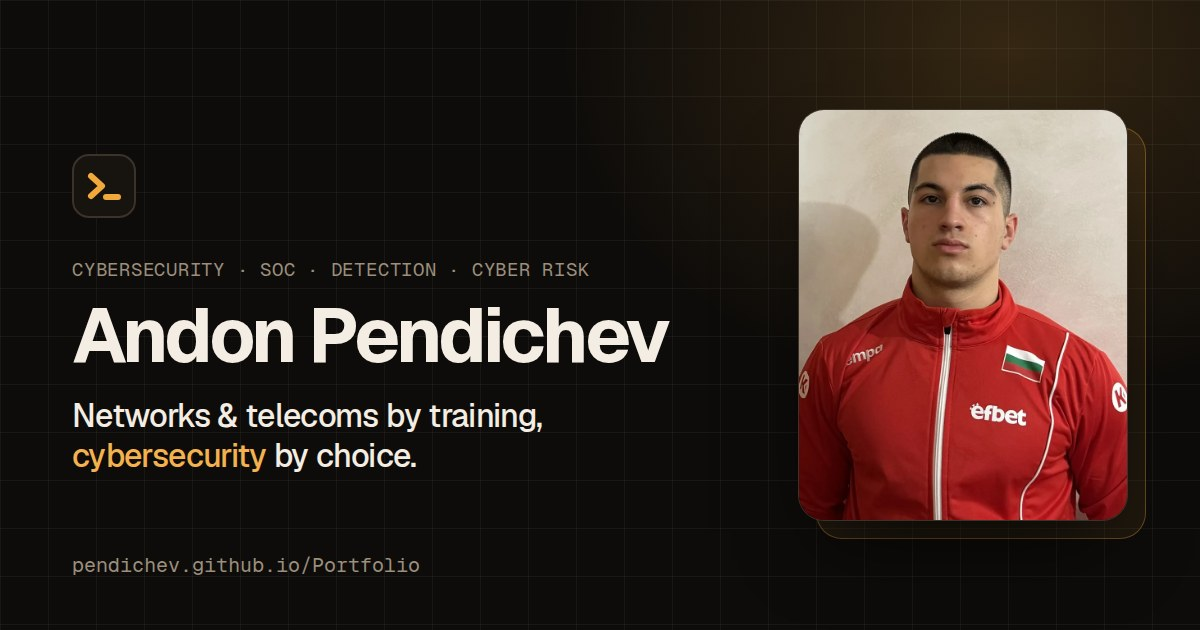
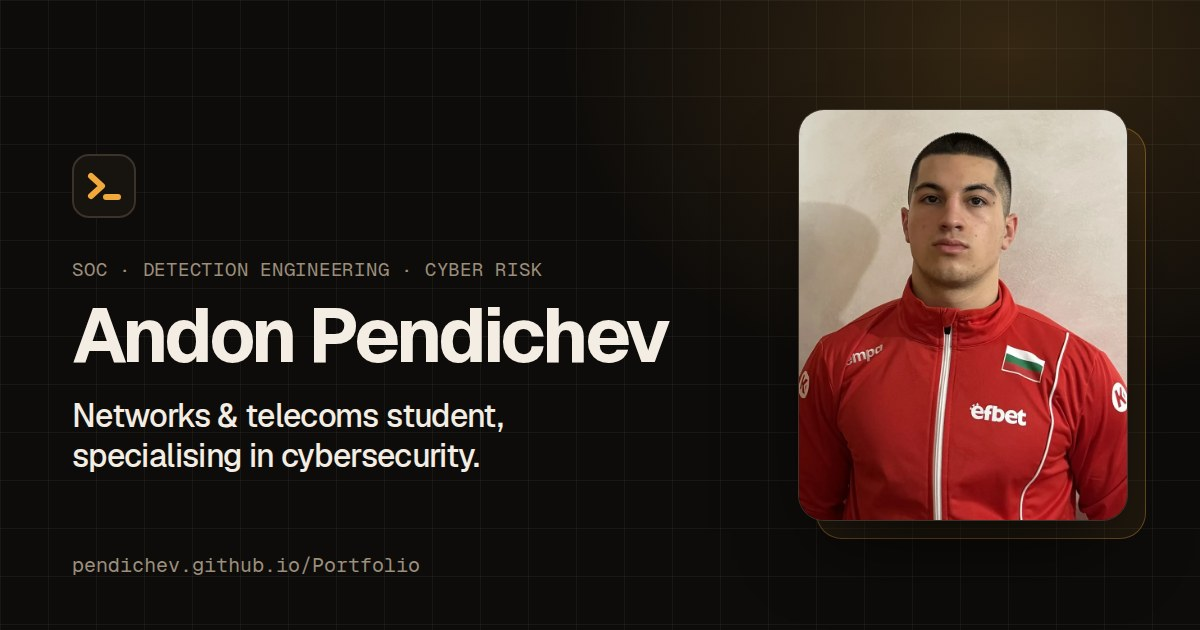
Hero: plain tagline, no stats row
- Replace the "by training / by choice" tagline with a plain statement:
  "Networks & telecoms student, specialising in cybersecurity." (FR:
  "Étudiant en réseaux & télécoms, spécialisé en cybersécurité.")
- Shorter intro under it: university and the two internships.
- Drop "Cybersecurity" from the eyebrow now that the tagline says it.
- Remove the stats row (markup, styles and strings).
- Clip the hero sideways only, so the photo's shadow is no longer cut off.
- Update og:description and regenerate the social preview image.

Claude-Session: https://claude.ai/code/session_01Ug7w3SsYw8BMmvt2FnuTEH

Changed region(s): [[0.0617, 0.6333, 0.4625, 0.754], [0.0617, 0.4222, 0.4933, 0.4524]]

diff --git a/index.html b/index.html
@@ -16,7 +16,7 @@
 
   <meta property="og:type" content="profile">
   <meta property="og:title" content="Andon Pendichev — Cybersecurity student">
-  <meta property="og:description" content="Networks &amp; telecoms by training, cybersecurity by choice.">
+  <meta property="og:description" content="Networks &amp; telecoms student, specialising in cybersecurity.">
   <meta property="og:url" content="https://pendichev.github.io/Portfolio/">
   <meta property="og:image" content="https://pendichev.github.io/Portfolio/assets/img/og-image.jpg">
   <meta property="og:image:width" content="1200">
@@ -135,10 +135,10 @@
       <div class="container hero__grid">
         <div class="hero__copy">
           <p class="status-pill"><span class="status-pill__dot" aria-hidden="true"></span><span data-i18n="hero.status">Open to internships &amp; junior roles</span></p>
-          <p class="hero__eyebrow mono" data-i18n="hero.eyebrow">Cybersecurity · SOC · Detection engineering · Cyber risk</p>
+          <p class="hero__eyebrow mono" data-i18n="hero.eyebrow">SOC · Detection engineering · Cyber risk</p>
           <h1 class="hero__title" id="hero-title">Andon Pendichev</h1>
-          <p class="hero__lead" data-i18n="hero.lead"><span>Networks &amp; telecoms by training,</span> <span><em>cybersecurity</em> by choice.</span></p>
-          <p class="hero__text" data-i18n="hero.text">Third-year student at IUT de Villetaneuse — Université Sorbonne Paris Nord. From optical fibre and radio links to network design, web tools and security operations, I&nbsp;like understanding how systems work end to end.</p>
+          <p class="hero__lead" data-i18n="hero.lead"><span>Networks &amp; telecoms student,</span> <span>specialising in cybersecurity.</span></p>
+          <p class="hero__text" data-i18n="hero.text">Studying at Université Sorbonne Paris Nord, with two internships in 24/7 operations behind me: one in a network operations centre, one in cybersecurity.</p>
           <div class="hero__actions">
             <a class="btn btn--primary" href="#projects"><span data-i18n="hero.cta1">See my work</span><svg class="icon" aria-hidden="true"><use href="#i-arrow-right"/></svg></a>
             <a class="btn btn--ghost" href="#cv"><svg class="icon" aria-hidden="true"><use href="#i-file-text"/></svg><span data-i18n="hero.cta2">Get my CV</span></a>
@@ -156,15 +156,6 @@
             <span class="hero__card-v" data-i18n="hero.card.v">BUT Networks &amp; Telecoms, year 3</span>
           </figcaption>
         </figure>
-      </div>
-
-      <div class="container">
-        <ul class="hero-stats">
-          <li class="hero-stats__item"><strong class="hero-stats__num">14</strong><span data-i18n="hero.stat1">projects in security, networks, telecoms &amp; development</span></li>
-          <li class="hero-stats__item"><strong class="hero-stats__num">2</strong><span data-i18n="hero.stat2">internships in Bulgaria — network operations &amp; cybersecurity</span></li>
-          <li class="hero-stats__item"><strong class="hero-stats__num">10</strong><span data-i18n="hero.stat3">years of team handball, incl. the Bulgarian national team</span></li>
-          <li class="hero-stats__item"><strong class="hero-stats__num">4</strong><span data-i18n="hero.stat4">languages — Bulgarian, French, English, Spanish</span></li>
-        </ul>
       </div>
     </section>
 

diff --git a/assets/css/main.css b/assets/css/main.css
@@ -466,7 +466,8 @@ code {
   position: relative;
   isolation: isolate;
   overflow: hidden;
-  padding: calc(var(--header-h) + clamp(40px, 7vw, 88px)) 0 clamp(8px, 2vw, 24px);
+  overflow: clip visible; /* clip sideways only, so the photo's shadow isn't cut off */
+  padding: calc(var(--header-h) + clamp(40px, 7vw, 88px)) 0 clamp(32px, 5vw, 56px);
 }
 .hero__bg {
   position: absolute;
@@ -547,14 +548,6 @@ code {
 }
 /* Each half of the tagline wraps as a unit, so the line breaks after the comma. */
 .hero__lead > span { display: inline-block; }
-.hero__lead em {
-  font-style: normal;
-  color: var(--accent-text);
-  text-decoration: underline;
-  text-decoration-color: var(--accent-line);
-  text-decoration-thickness: .1em;
-  text-underline-offset: .16em;
-}
 .hero__text { max-width: 58ch; margin-bottom: 30px; font-size: 1.05rem; text-wrap: pretty; }
 .hero__actions { display: flex; flex-wrap: wrap; gap: 12px; margin-bottom: 28px; }
 .hero__meta {
@@ -608,44 +601,10 @@ code {
 .hero__card-k { font-size: .66rem; letter-spacing: .08em; text-transform: uppercase; color: var(--accent-text); }
 .hero__card-v { font-size: .95rem; font-weight: 600; color: var(--text); }
 
-/* Stats strip */
-.hero-stats {
-  display: grid;
-  grid-template-columns: repeat(4, minmax(0, 1fr));
-  margin-top: clamp(48px, 7vw, 80px);
-  border-top: 1px solid var(--line);
-}
-.hero-stats__item {
-  display: flex;
-  flex-direction: column;
-  gap: 6px;
-  padding: 22px 22px 0 0;
-  font-size: .9rem;
-  line-height: 1.4;
-  color: var(--text-3);
-}
-.hero-stats__item + .hero-stats__item { padding-left: 22px; border-left: 1px solid var(--line); }
-.hero-stats__num {
-  font-size: clamp(1.9rem, 3.2vw, 2.5rem);
-  font-weight: 650;
-  line-height: 1;
-  letter-spacing: -0.03em;
-  color: var(--text);
-}
-
 @media (max-width: 1020px) {
   .hero__grid { grid-template-columns: minmax(0, 1fr); }
   .hero__photo { justify-self: start; max-width: 340px; }
   .hero__card { left: 16px; bottom: 16px; }
-}
-@media (max-width: 760px) {
-  .hero-stats { grid-template-columns: repeat(2, minmax(0, 1fr)); border-top: 0; gap: 12px; }
-  .hero-stats__item,
-  .hero-stats__item + .hero-stats__item {
-    padding: 16px 0 0;
-    border-left: 0;
-    border-top: 1px solid var(--line);
-  }
 }
 @media (max-width: 480px) {
   .hero__actions .btn { flex: 1 1 auto; }

diff --git a/assets/js/i18n.js b/assets/js/i18n.js
@@ -33,18 +33,14 @@ window.I18N.fr = {
 
   /* Hero */
   'hero.status': 'Ouvert aux stages et premiers postes',
-  'hero.eyebrow': 'Cybersécurité · SOC · Ingénierie de la détection · Risques cyber',
-  'hero.lead': '<span>Réseaux &amp; télécoms par formation,</span> <span><em>cybersécurité</em> par choix.</span>',
-  'hero.text': 'Étudiant en troisième année à l’IUT de Villetaneuse — Université Sorbonne Paris Nord. De la fibre optique et des liaisons radio à la conception de réseaux, aux outils web et aux opérations de sécurité, j’aime comprendre comment les systèmes fonctionnent de bout en bout.',
+  'hero.eyebrow': 'SOC · Ingénierie de la détection · Risques cyber',
+  'hero.lead': '<span>Étudiant en réseaux &amp; télécoms,</span> <span>spécialisé en cybersécurité.</span>',
+  'hero.text': 'J’étudie à l’Université Sorbonne Paris Nord et j’ai deux stages en exploitation 24/7 à mon actif&nbsp;: l’un dans un centre de supervision réseau, l’autre en cybersécurité.',
   'hero.cta1': 'Voir mes réalisations',
   'hero.cta2': 'Mon CV',
   'hero.location': 'Île-de-France, France',
   'hero.card.k': 'Actuellement',
   'hero.card.v': 'BUT Réseaux &amp; Télécoms, 3ᵉ année',
-  'hero.stat1': 'projets en sécurité, réseaux, télécoms &amp; développement',
-  'hero.stat2': 'stages en Bulgarie — exploitation réseau &amp; cybersécurité',
-  'hero.stat3': 'ans de handball en équipe, dont l’équipe nationale de Bulgarie',
-  'hero.stat4': 'langues — bulgare, français, anglais, espagnol',
 
   /* About */
   'about.title': 'Bonjour, je suis Andon.',
